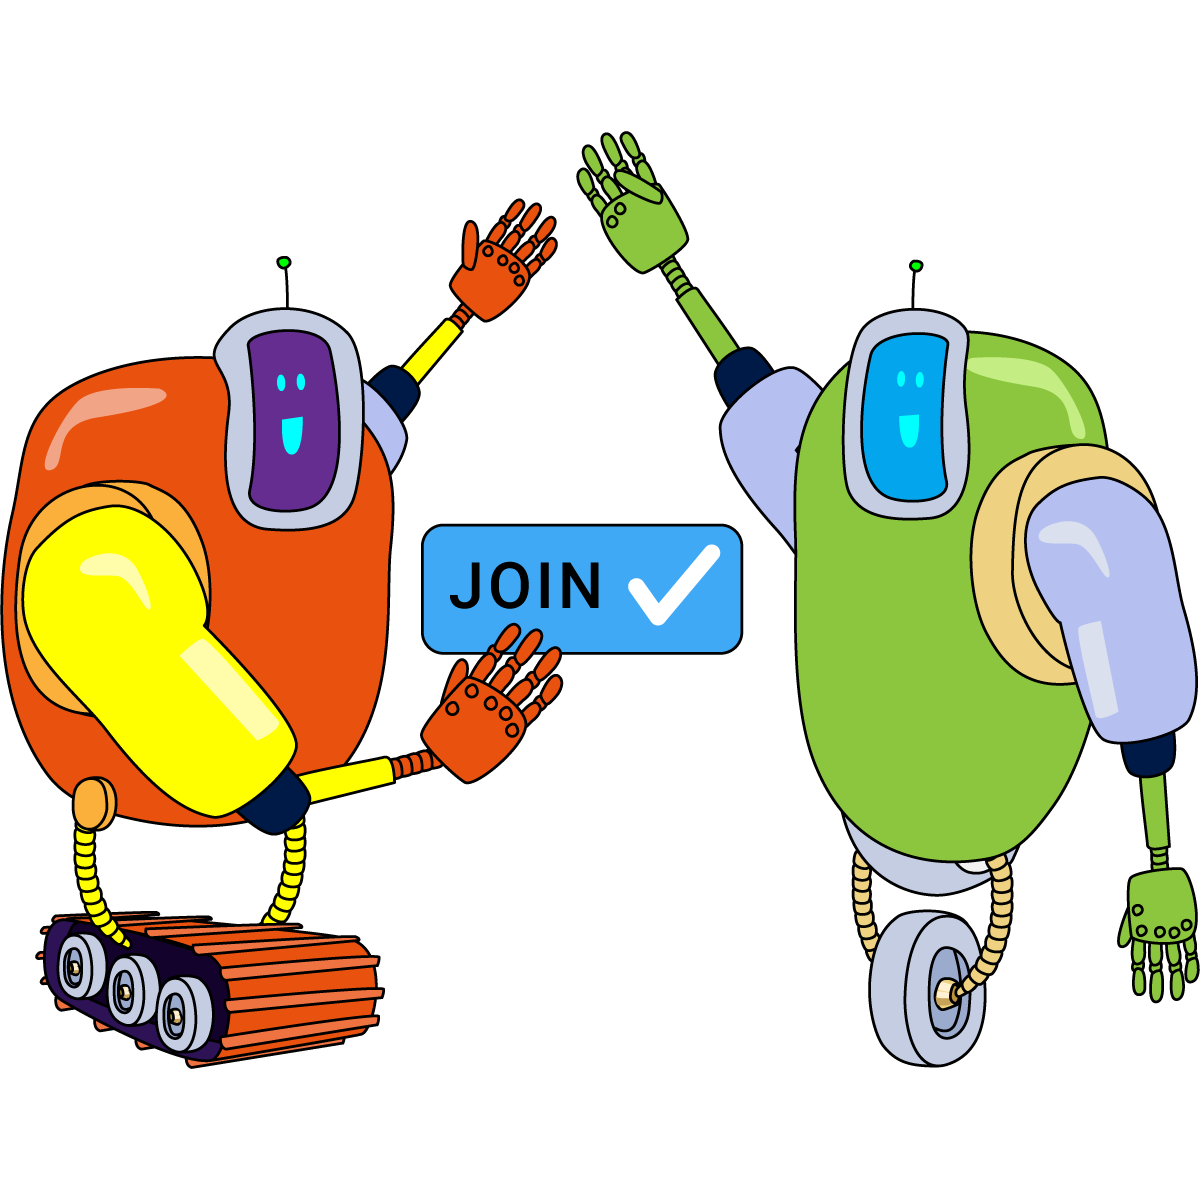
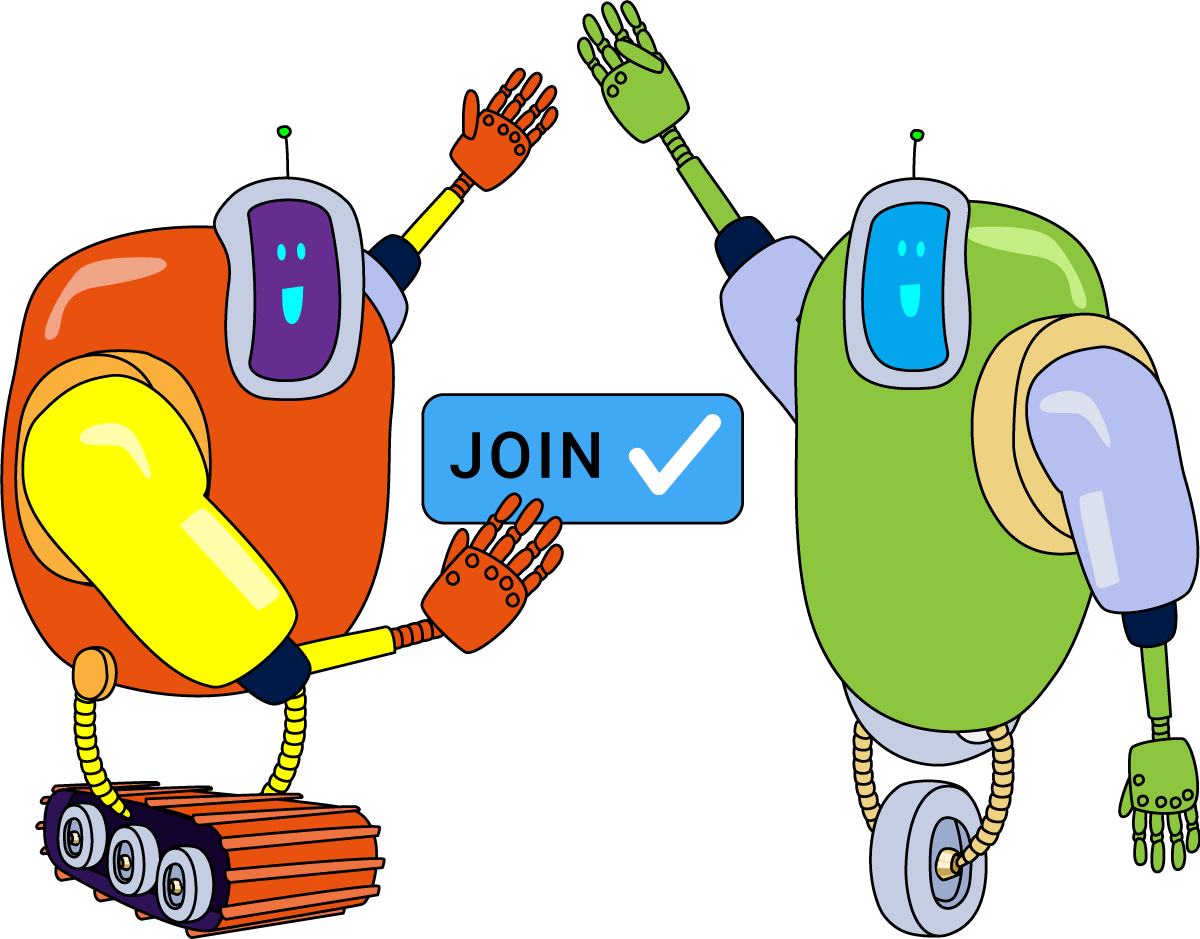
wschool content

diff --git a/src/components/TextCard.vue b/src/components/TextCard.vue
@@ -1,6 +1,6 @@
 <template>
   <div class="card" :class="classes" @focusin="isActive = true" @focusout="isActive = false" tabindex="0">
-
+  
     <div v-if="icon" class="icon"><img alt="" :src="icon"/></div>
     <div v-if="image" class="image" :class="{imageRound: imageRound}">
       <g-image alt="" :src="image"/>
@@ -93,7 +93,7 @@ export default {
         [`card-image`]: this.image,
         [`card-link`]: this.link || this.popup,
         [`oldy`]: this.back != `transparent`,
-        [`oldy__link`]: this.link || this.popup || this.back != `transparent`,
+        [`oldy__link`]: this.link || this.popup,
         [`card-${this.back}`]: true,
         [`card-imageSize-${this.imageSize}`]: this.icon || this.image,
         [`${this.orientation}`]: true,
@@ -158,6 +158,19 @@ export default {
 
     &.vertical {
       text-align: center;
+
+      .image img {
+        margin: 0 auto;
+      }
+
+      @media screen and (max-width: 500px){
+        display: block;
+
+        .image, .icon {
+          margin-bottom: var(--space);
+        }
+      }
+
     }
 
     &.pin {
@@ -296,14 +309,14 @@ export default {
       }
 
     &.vertical {
-      grid-template-rows: 200px auto;
+      grid-template-rows: 300px auto;
       justify-items: center;
       text-align: center;
 
       .icon, .imageRound {
-        width: 120px;
-        height: 120px;
-        border-radius: 60px;
+        width: 180px;
+        height: 180px;
+        border-radius: 90px;
       }
     }
   }

diff --git a/src/assets/style/_buttons.scss b/src/assets/style/_buttons.scss
@@ -32,7 +32,8 @@
 			}
 
 			&:hover{
-				background-color: var(--link-color-hover);
+				background-color: var(--link-color-hover) !important;
+				border-color: var(--link-color-hover) !important;
 
 				.button-icon {
 					fill: var(--link-color-hover);
@@ -115,6 +116,16 @@
 		&.large {
 			padding: 0.8rem 1.4rem;
 			font-size: calc(var(--base-font-size) * 1.2);
+		}
+
+		&.green {
+			background-color: var(--color-green);
+			border-color: var(--color-green);
+		}
+
+		&.orange {
+			background-color: var(--color-orange);
+			border-color: var(--color-orange);
 		}
 	}
 

diff --git a/src/assets/style/_variables.scss b/src/assets/style/_variables.scss
@@ -9,6 +9,7 @@ body {
 	--color-gray: #ccc;
 	--color-gray-light: #f2f2f2;
 	--color-green: #54ce63;
+	--color-orange: #E9510E;
 	--color-red: #ee005b;
 
  	--body-bg: var(--color-light);

diff --git a/content/posts/Winter-Robonomics-School.md b/content/posts/Winter-Robonomics-School.md
@@ -108,13 +108,13 @@ Master classes include overviews of Robonomics io, using prepared digital twin t
 The Robonomics Winter School is an excellent opportunity for software developers and all interested to gain invaluable knowledge on working with the Robonomics Network and related packages for building Dapps and operating blockchain technologies and coding. The Robonomics Network invites all interested to join the courses and take advantage of the unique opportunity of gaining firsthand knowledge from industry experts. The courses will be hosted by Aleksandr Kapitonov (Dean of the Faculty of Infocommunication Technologies), Aleksandr Krupenkin (Robotics/IoT/Ethereum smart contract developer), Aleksandr Starostin (Web developer, Ethereum smart contract developer), Vadim Manaenko (Robotics and IoT engineer, drones developer), Anastasiia Bakai (UI, Motion Design, Front-end), Sergei Lonshakov (Robonomics co-founder and software architect).
 
 <section class="animate-inside" v-in-viewport.once>
-<Card :orientation="'vertical'" :image="'/posts/robonomics-school/join.png'" :imageSize="'big'" :imageRound="false" :link="'https://discord.gg/5UWNGNaAUf'">
+<Card :orientation="'vertical'" :image="'/posts/robonomics-school/join.png'" :imageSize="'big'" :imageRound="false" :link="'https://discord.gg/5UWNGNaAUf'" :back="'gradient'">
 
-### Join Robonomics Winter School Community
+## Join Robonomics Winter School Community
 
 Meet likeminded people, get rewards and chat with core Robonomics developers. 
 
-<Button :link="'https://discord.gg/5UWNGNaAUf'" :label="'Get started'" :button="'primary large'"/>
+<Button :link="'https://discord.gg/5UWNGNaAUf'" :label="'Get started'" :button="'primary large orange'"/>
 
 </Card>
 </section>
